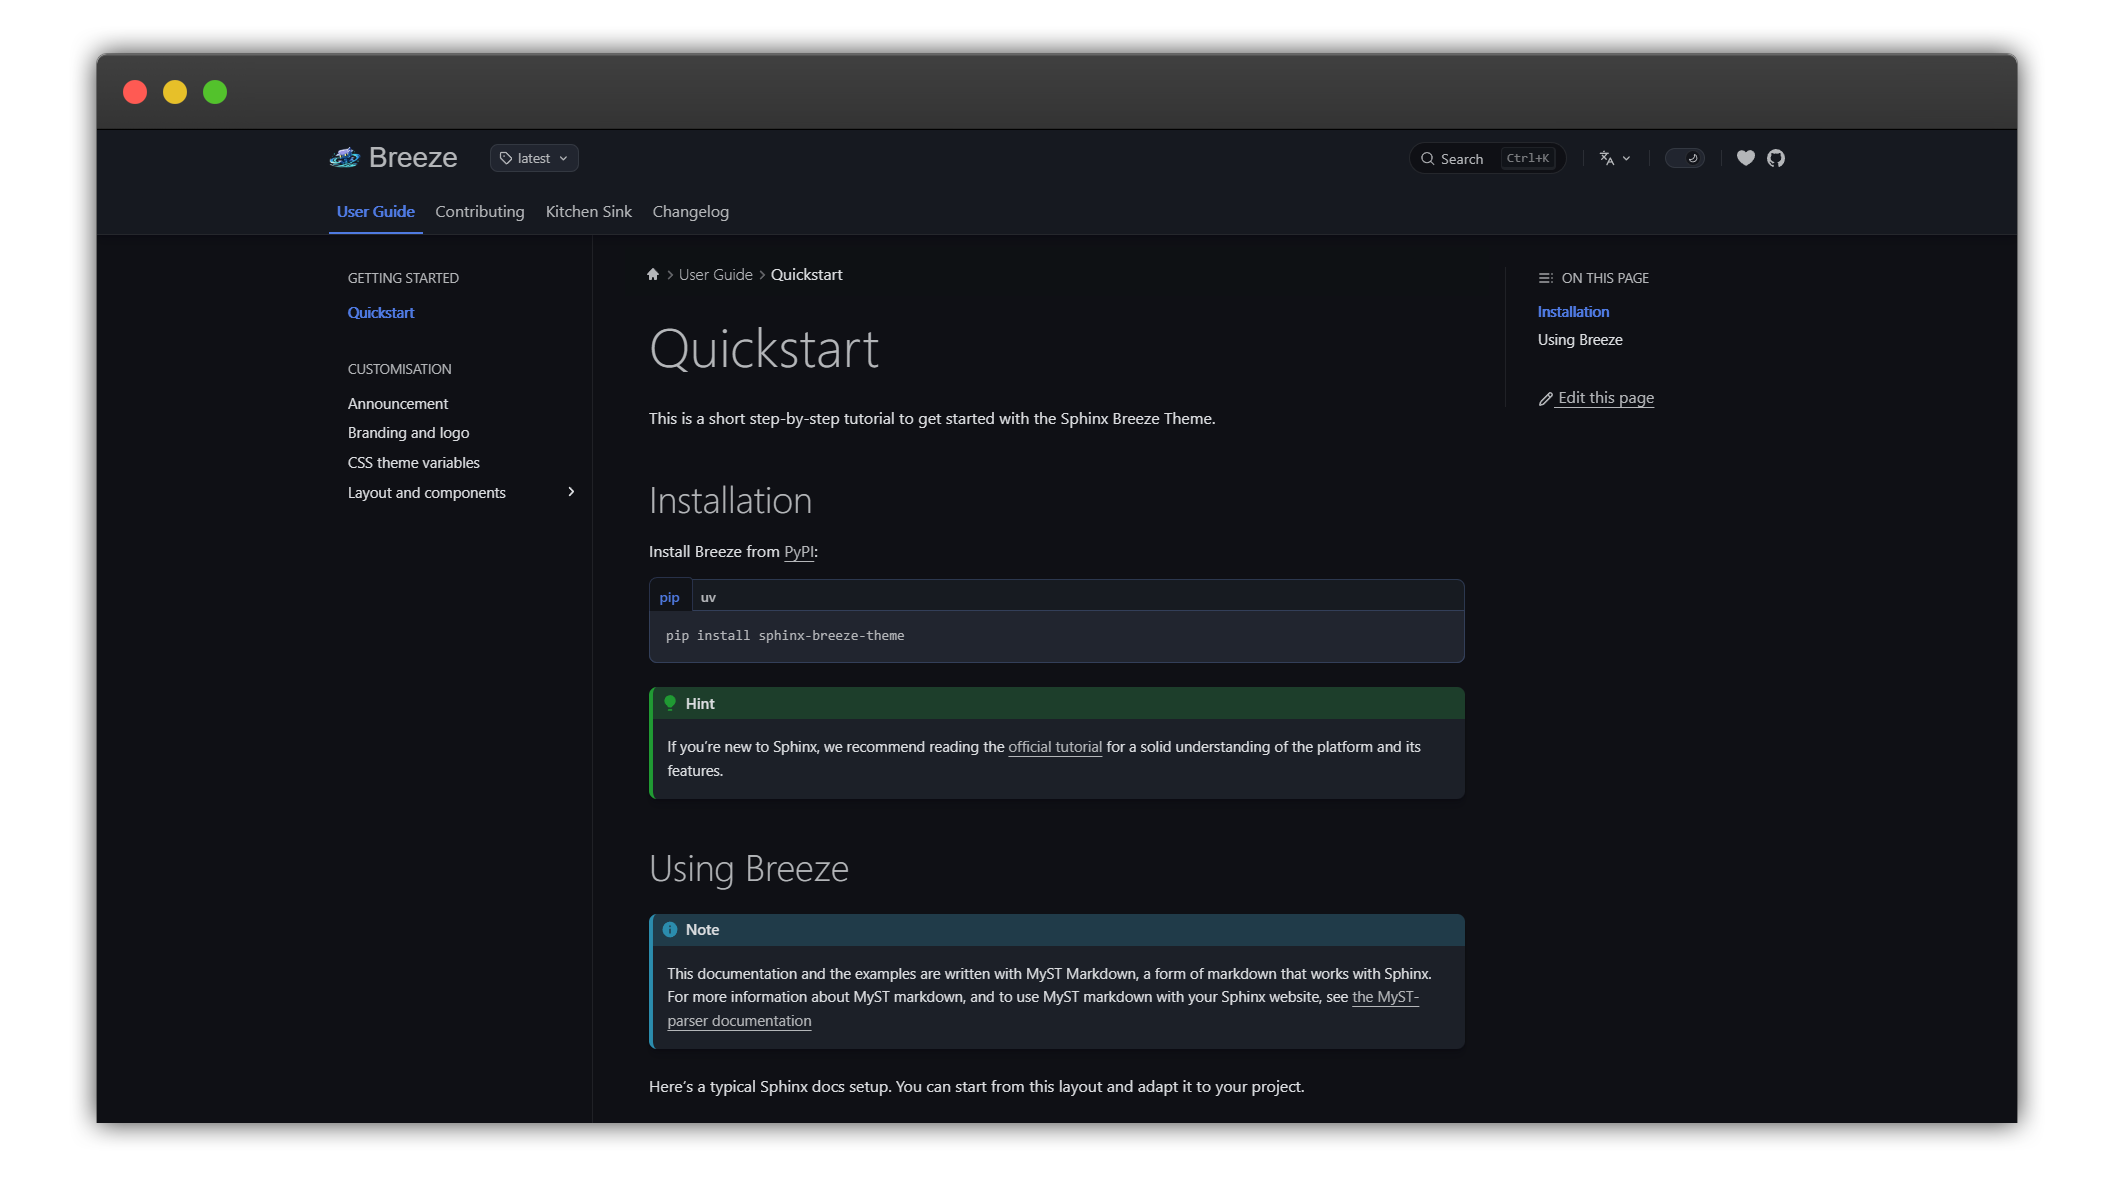
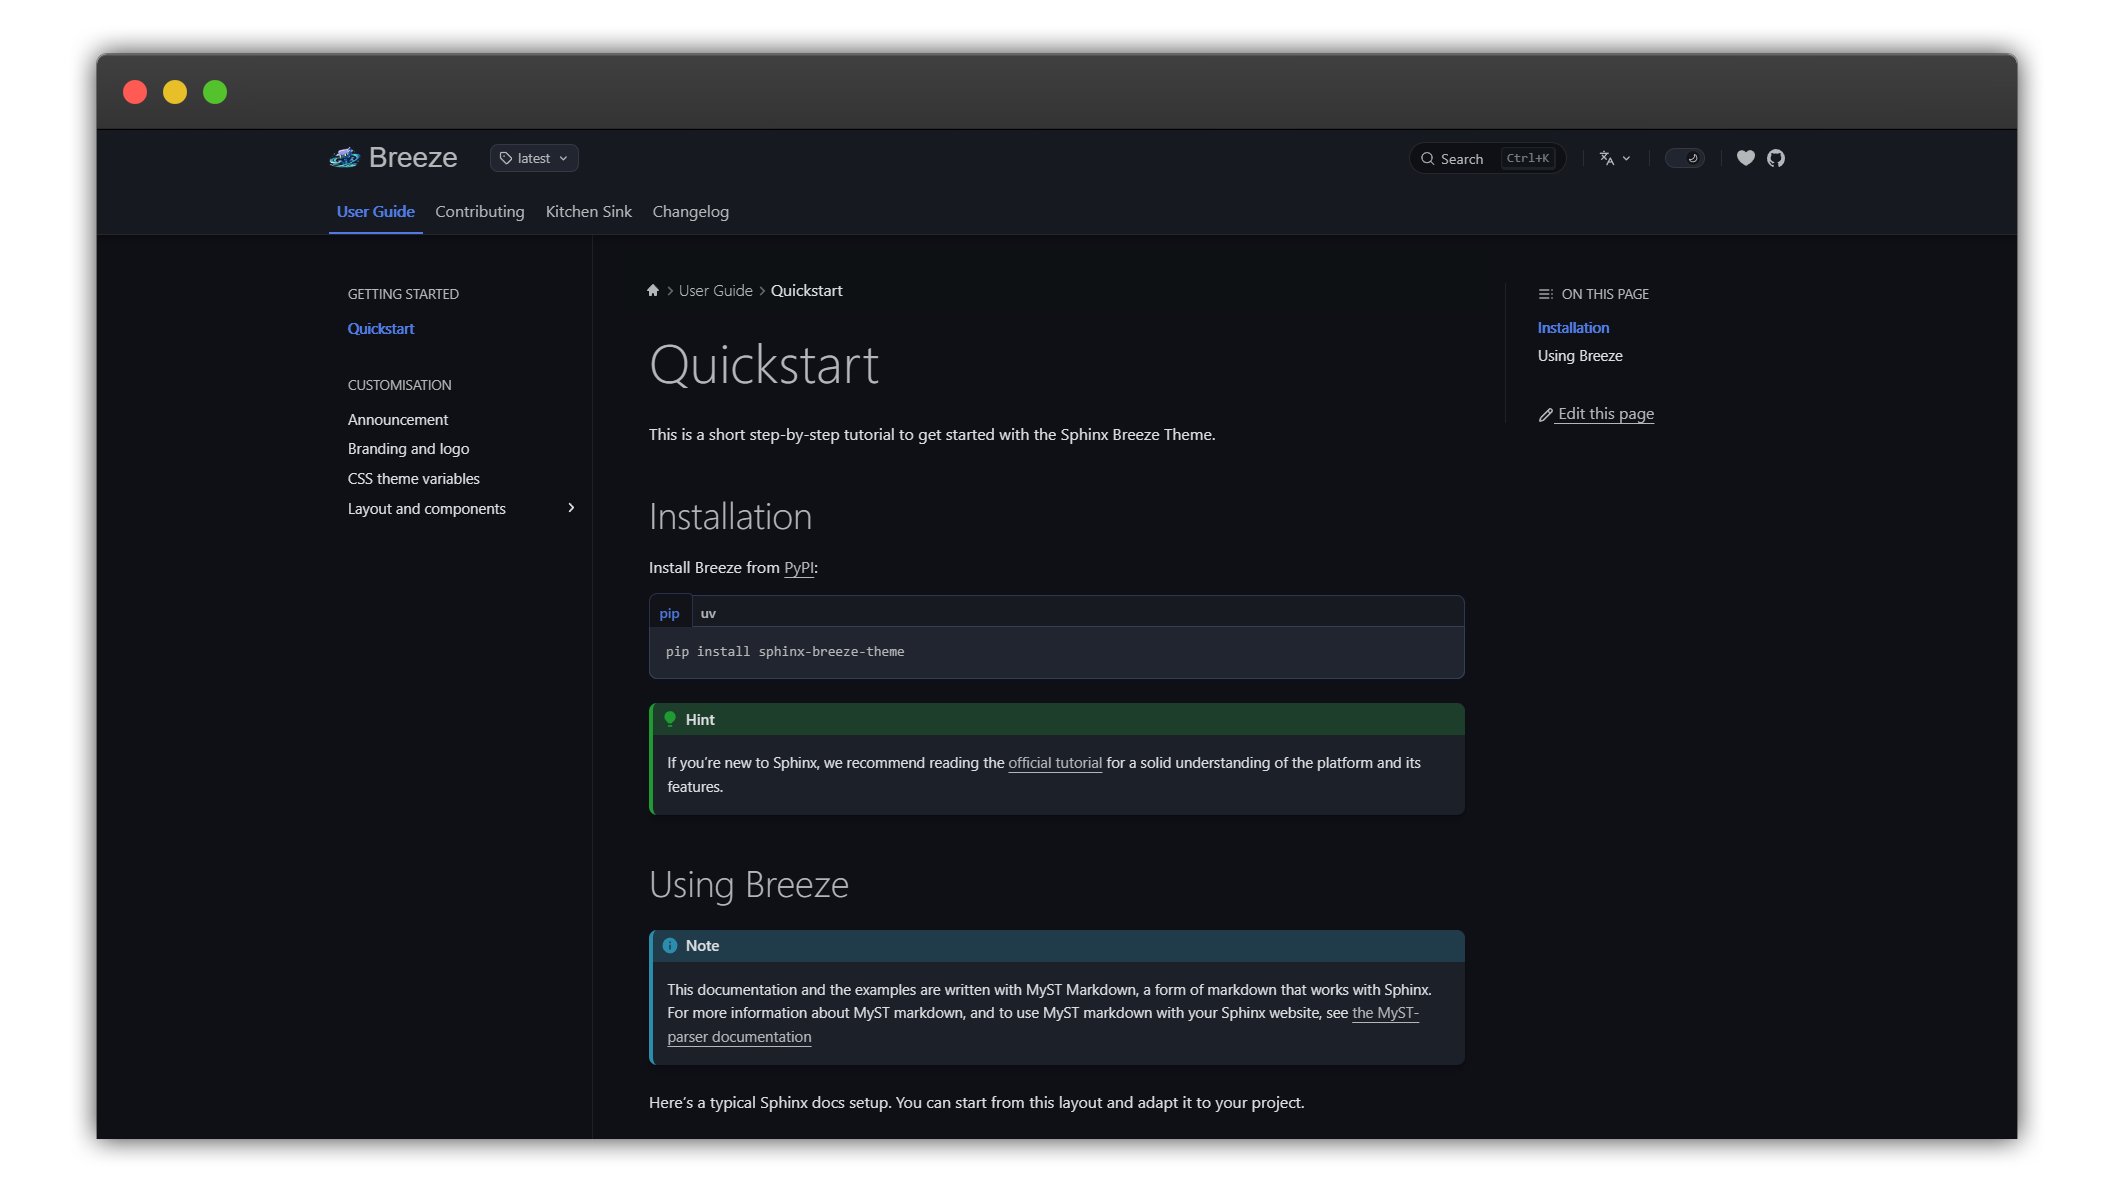
ui(layout): increase spacing between header and content

diff --git a/src/sphinx_breeze_theme/assets/styles/sections/sidebar-primary.css b/src/sphinx_breeze_theme/assets/styles/sections/sidebar-primary.css
@@ -38,11 +38,11 @@
     max-height: calc(100vh - var(--bz-header-height));
     padding-bottom: var(--bz-header-tabs-height);
     width: var(--bz-sidebar-primary-width);
-    top: var(--bz-header-height);
+    top: calc(var(--bz-header-height) - 1rem);
     background: none;
 
     > :first-child {
-      padding-top: 2rem;
+      padding-top: 3rem;
     }
 
     > :last-child {

diff --git a/src/sphinx_breeze_theme/assets/styles/sections/content.css b/src/sphinx_breeze_theme/assets/styles/sections/content.css
@@ -21,7 +21,7 @@
   min-width: 0;
   max-width: 72rem;
   margin-inline: auto;
-  padding-block: 2rem;
+  padding-block: 3rem;
   overflow-wrap: anywhere;
 
   @media (width > 75rem) {
